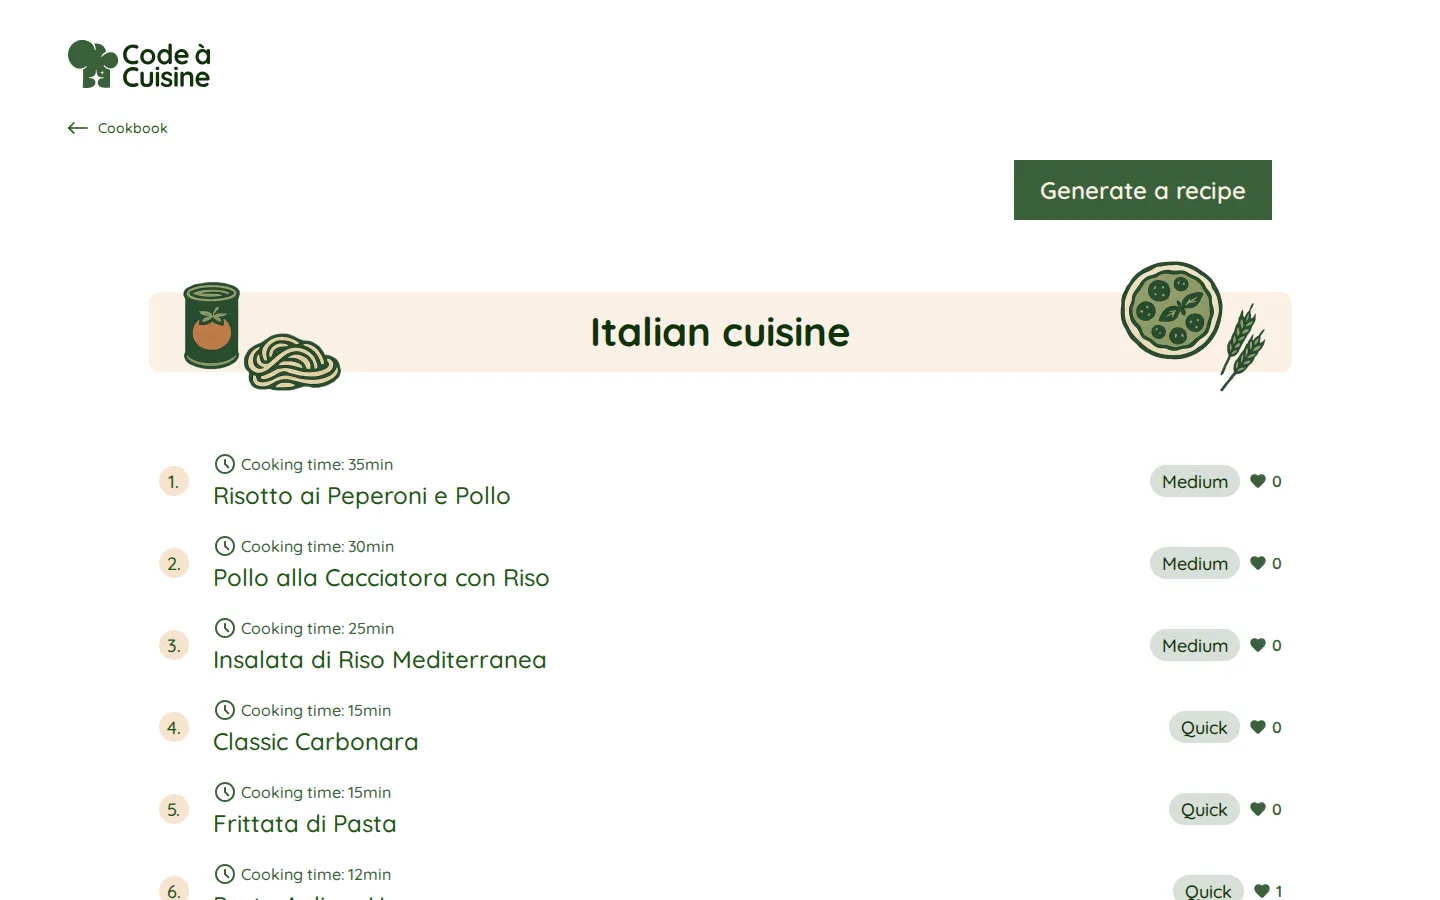
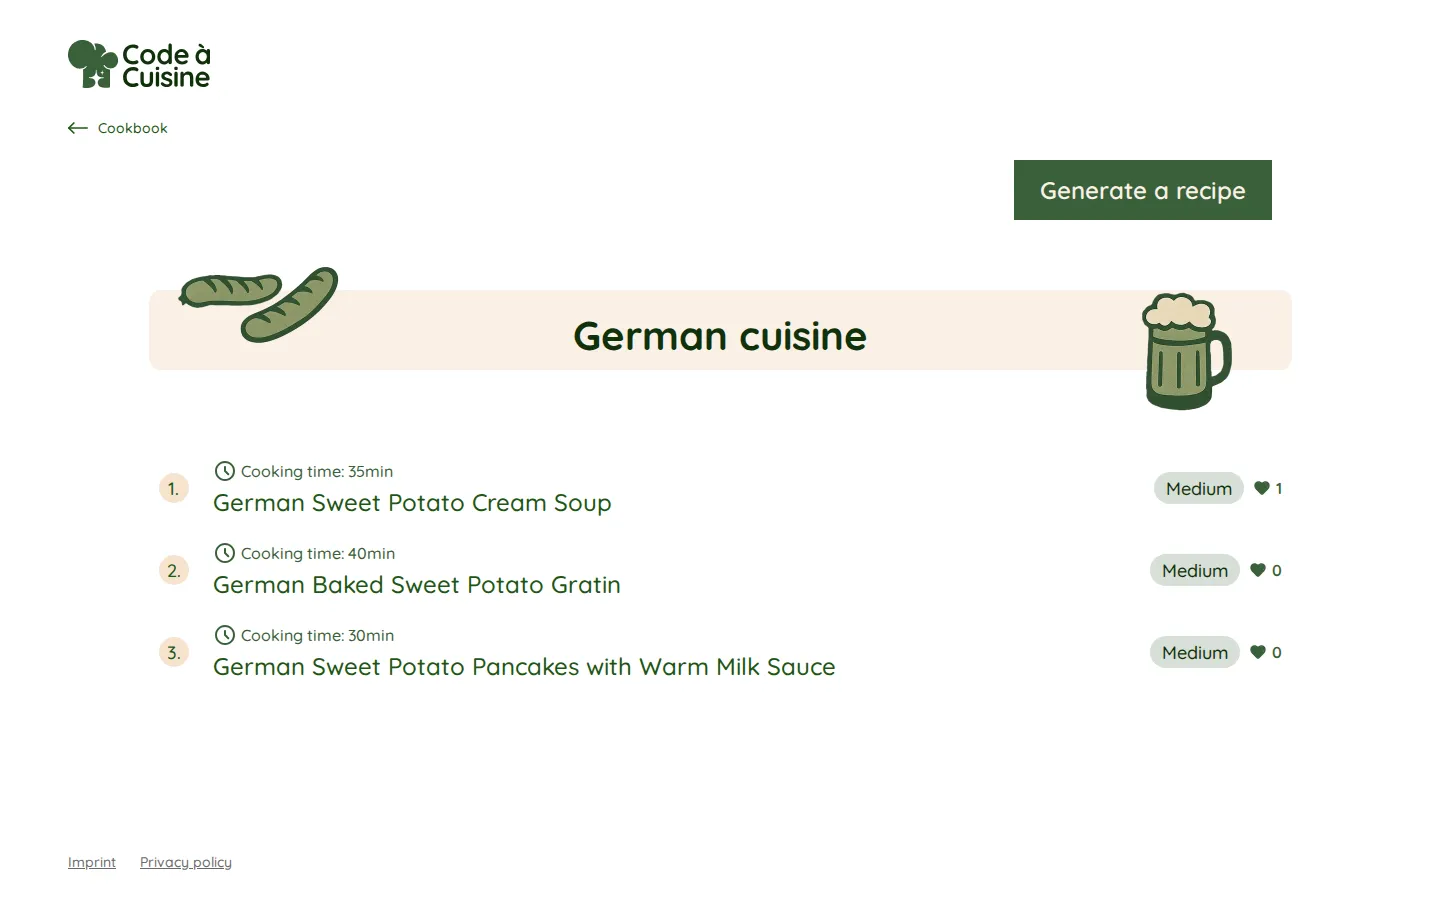
docs(readme): refresh README and screenshots to match HEAD
Nutrition is now per portion + whole-recipe total + macro %, not per 100g;
cooks get fixed responsibilities; the privacy page, footer and IP-hashed
quota ship since the README was last touched at 3c6e5bc. Screenshots are
retaken against real Firebase recipes via the dev server.

diff --git a/README.md b/README.md
@@ -23,9 +23,9 @@ Built as the submission project for the "Code à Cuisine" coding bootcamp.
 | --------------------------------------------------------------------------------- | -------------------------------------------------------------------------- |
 | ![Recipe detail with nutrition and likes](screenshots/recipe-detail-desktop.webp) | ![Cuisine library with most-liked strip](screenshots/library-desktop.webp) |
 
-| Cuisine page                                                     |
-| ---------------------------------------------------------------- |
-| ![Italian cuisine recipe list](screenshots/cuisine-desktop.webp) |
+| Cuisine page                                                    |
+| --------------------------------------------------------------- |
+| ![German cuisine recipe list](screenshots/cuisine-desktop.webp) |
 
 Mobile (375×812):
 
@@ -45,16 +45,21 @@ the daily quota for no reason.
   (quick / medium / complex), cuisine (German, Italian, Indian, Japanese,
   Gourmet, Fusion) and diet (vegetarian, vegan, keto, no preference).
 - **Three recipe suggestions** per generation, each with chronological
-  instructions, steps marked as running in parallel, and steps assigned to
-  individual cooks when more than one person is cooking.
-- **Estimated nutrition** (calories, protein, carbs, fat) per portion and
-  per 100 g of the finished dish, clearly labelled as an estimate.
+  instructions, steps marked as running in parallel, and — when more than
+  one person is cooking — steps assigned to individual cooks, each with a
+  fixed area of the dish they own from start to finish (e.g. "Chef 1: pasta
+  · Chef 2: sauce").
+- **Estimated nutrition** (calories, protein, carbs, fat) per portion, the
+  whole recipe's total, and each macronutrient's share of the total
+  protein+carbs+fat weight, clearly labelled as an estimate.
 - **Public library** of every generated recipe, grouped by cuisine, with a
   "most liked" strip and a like button per recipe (one like per browser,
   remembered locally).
 - **Daily quota**: 3 generations per visitor (by IP) per day, capped at 12
   generations system-wide, both enforced server-side before the paid model
-  call runs.
+  call runs. The IP itself is never stored — only an HMAC-SHA256 hash of it
+  keyed under the day, deleted every night for days that have passed.
+- **Imprint and privacy policy**, reachable from every page's own footer.
 
 ## Architecture
 
@@ -102,17 +107,18 @@ No test scripts — this project deliberately ships without a test setup.
 
 ```
 src/app/pages/          home, generator, preferences, loading, results,
-                         recipe-detail, library, cuisine, imprint
-src/app/components/     counter, header, ingredient-input, ingredient-list,
-                         like-button, not-enough-popup, pagination, tag,
-                         unit-select
+                         recipe-detail, library, cuisine, imprint, privacy
+src/app/components/     counter, footer, header, ingredient-input,
+                         ingredient-list, like-button, not-enough-popup,
+                         pagination, tag, unit-select
 src/app/core/           RecipeRequestService, RecipeApi, route guards,
                          Recipe/CuisineMeta models, ingredient suggestions
 src/app/app.routes.ts   routing, incl. the generator-step guards
 src/styles/             7-1 structure, design tokens as CSS custom
                          properties in src/styles/abstracts/_variables.scss
 src/environments/       Firebase + n8n URLs (see below)
-n8n/                    exported n8n workflow JSONs that generate recipes
+n8n/                    exported n8n workflow JSONs: recipe generation,
+                         quota lookup, nightly quota cleanup, error handler
 ```
 
 `src/app/pages/cuisine` implements the `/library/:cuisine` route — named
